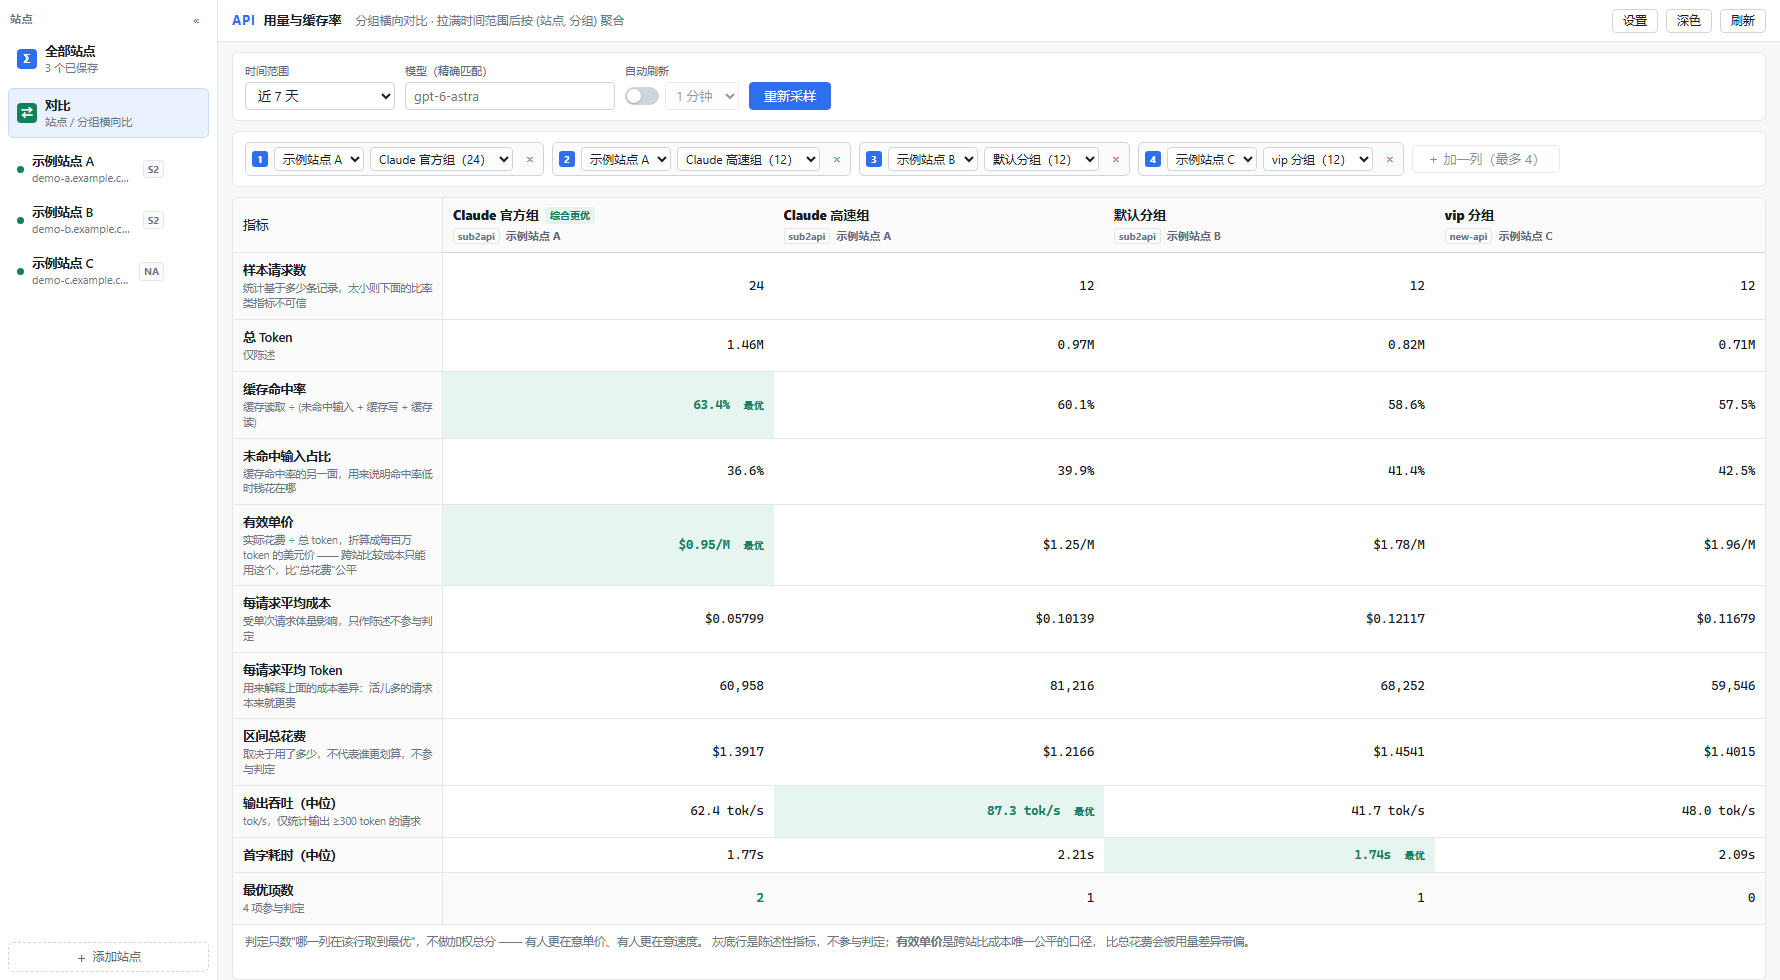
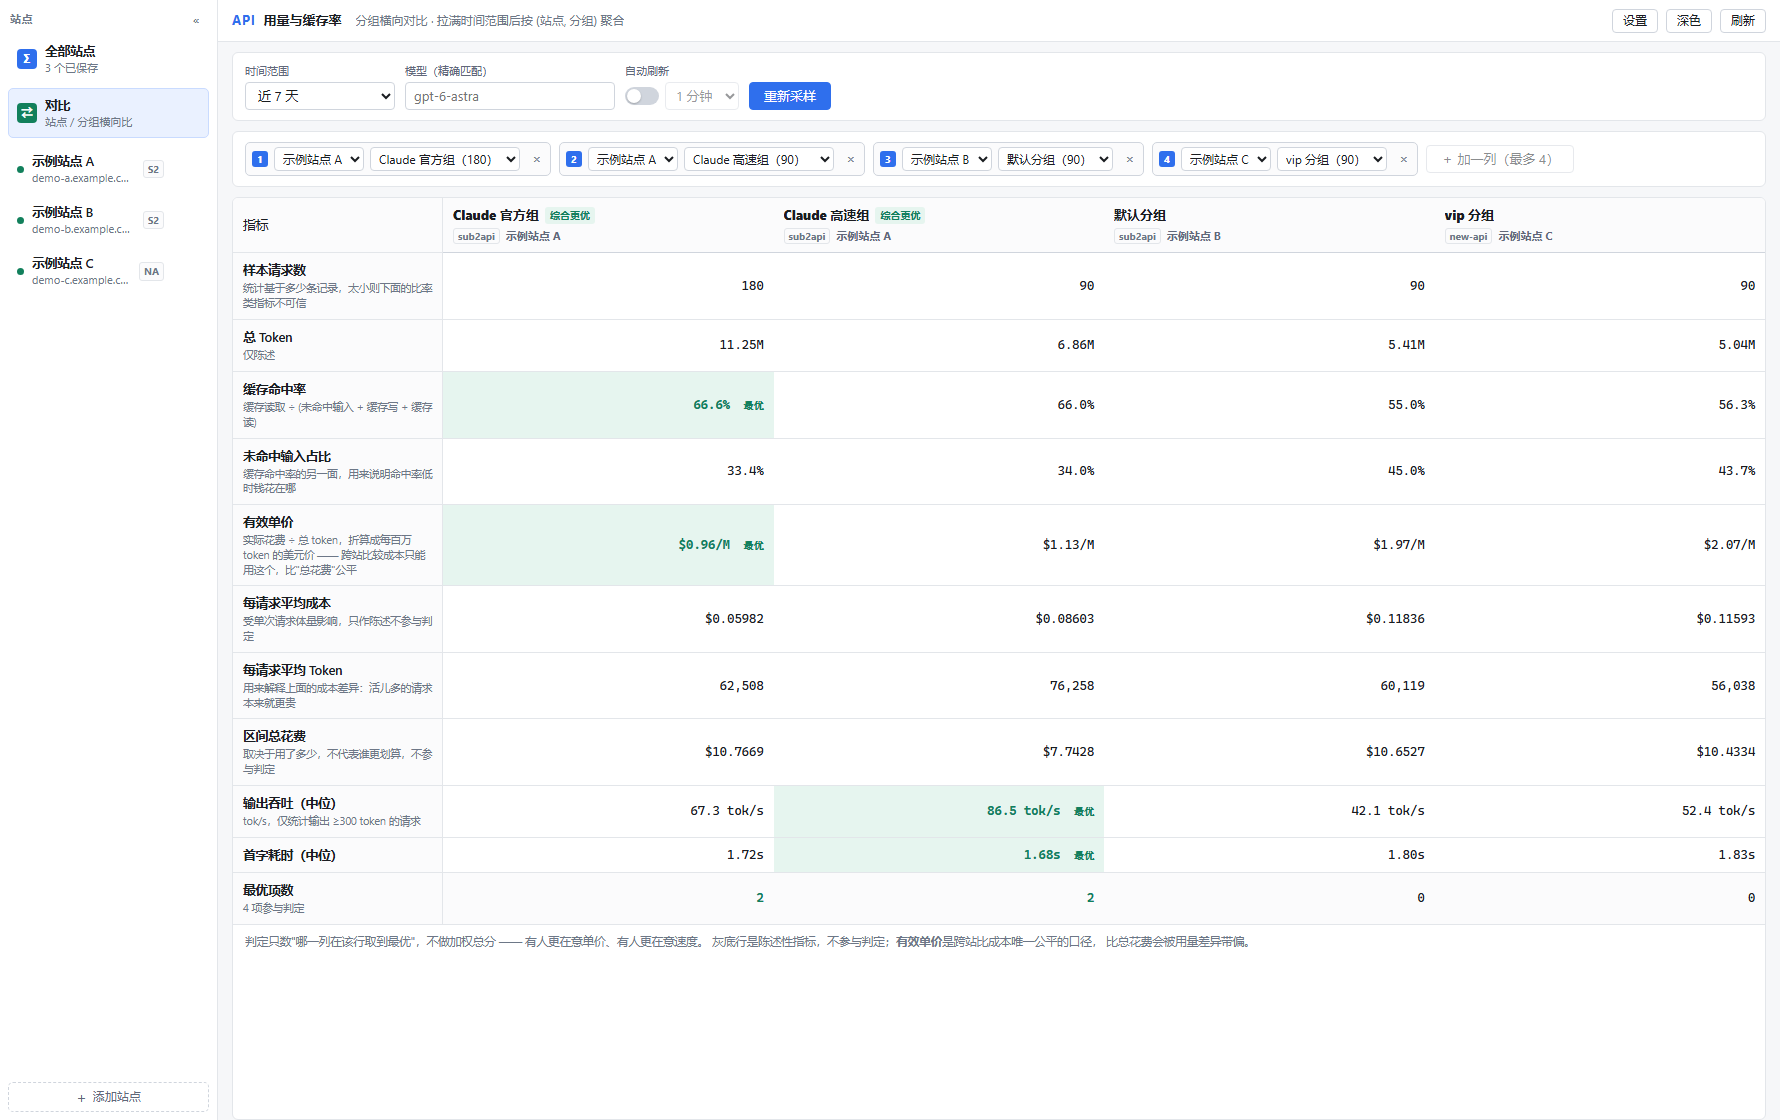
docs: README 增加全量统计章节并重制截图

diff --git a/README.md b/README.md
@@ -23,6 +23,16 @@ cacheRate = cache_read / (uncached_input + cache_creation + cache_read)
 | sub2api | `input / cache_creation / cache_read / output` | `input` 本来就不含缓存，四项直接相加得总量 |
 | new-api | `prompt_tokens` + `other.cache_tokens` | OpenAI 系的 `prompt_tokens` **已含**缓存，够减就减；不够减（Anthropic 系）就原样当未命中输入 |
 
+## 全量统计与趋势
+
+明细表是分页的，所以默认汇总只累加**当前这一页**——时间范围拉到 7 天却只统计了头 100 条，这个数字会骗人。点「全量统计」会把时间范围内的记录连续翻页拉完（每站上限 4000 条，触顶就在徽章上标「已截断」），顶部汇总、分站小计和趋势图一起改用全量口径重算，三个数字不会各说各话。
+
+扫描结果按「站点 + 时间范围 + 模型」缓存 60 秒，和「对比」共用同一份采样，来回切换不重复打接口。
+
+顺手画出缓存率的日粒度趋势：单站点视图每个分组一条线，合并视图每个站点一条线。没有记录的日期**断线**而不是连过去，否则「停用了一周」会被画成「缓存崩了」。纵轴跟着数据取值域，并在图上写明不是从 0 起——常年在 60~75% 之间晃的指标，用 0~100 的轴等于没画。
+
+![全量统计后的汇总与缓存率趋势](docs/screenshots/full-scan.png)
+
 ## 跨站合并
 
 多个站点的 token 按加权合并，费用只在单位一致时才求和——sub2api 记美元、new-api 记 quota，混在一起算出来的数字是假的，所以宁可留空并说明原因。
@@ -86,8 +96,8 @@ pnpm dist         # 打包 portable + NSIS，产物在 dist/
 
 ## 已知限制
 
-- 明细表上方的汇总是**当前页**累加，不是服务端全量统计；看全量请用「对比」，它会按时间范围连续翻页采样
-- 对比每列采样上限 4000 条，触顶会明确标「已截断」
+- 明细表上方的汇总默认只覆盖**当前页**；要覆盖整个时间范围点一次「全量统计」，它会连续翻页采样
+- 全量统计和对比都是每站最多 4000 条采样，触顶会明确标「已截断」，不假装统计完了
 - OpenAI 系上游没有 Anthropic 那种显式缓存写入计费，`cache_creation` 返回 0 是正常的，不是丢数据
 - new-api 拿不到 `quota_per_unit` 时成本换算不出美元，该站成本列不参与对比
 - 只在 Windows x64 实测过；README 截图里的站点、分组和数字全是合成演示数据
